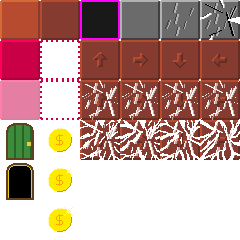
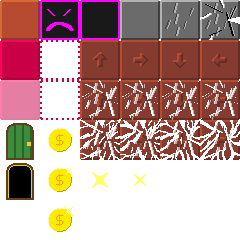
Coin and Death block animations

diff --git a/src/tilemap.rs b/src/tilemap.rs
@@ -2,7 +2,7 @@ use crate::geometry::rect::Rect;
 use crate::geometry::vec2d::Vec2d;
 use crate::tiles::{self, TILE_SIZE};
 use sdl2::render::{Texture, WindowCanvas};
-use std::collections::HashMap;
+use std::collections::{HashMap, HashSet};
 
 // How long each phase of a periodic tile (7/8) lasts
 const PERIODIC_TILE_INTERVAL: f32 = 1.0;
@@ -27,6 +27,17 @@ const PLATFORM_DESTROY_DELAY: f32 = 1.0;
 const COIN_ANIM_INTERVAL: f32 = 5.0;
 const COIN_ANIM_FRAME: f32 = 0.25;
 
+// The coin graphic is a circle centered in its 40x40 tile; collision uses a
+// square of this size inscribed in that circle rather than the full tile, so
+// the player only collects it when actually overlapping the coin.
+const COIN_DIAMETER: f32 = 24.0;
+
+// When a coin is collected it plays a brief two-frame sparkle in its place.
+// The frames live at these pixel coordinates in tilemap.png and each shows for
+// COIN_COLLECT_FRAME seconds.
+const COIN_COLLECT_FRAME: f32 = 0.2;
+const COIN_COLLECT_SPRITES: [(i32, i32); 2] = [(80, 160), (120, 160)];
+
 #[derive(Clone)]
 pub struct MovingPlatform {
     pub x: f32,
@@ -48,6 +59,14 @@ impl MovingPlatform {
     }
 }
 
+/// A transient sparkle played at a coin's tile right after it is collected.
+#[derive(Clone)]
+struct CoinEffect {
+    tile_x: usize,
+    tile_y: usize,
+    timer: f32,
+}
+
 pub struct TileMap {
     pub width: usize,
     pub height: usize,
@@ -59,6 +78,8 @@ pub struct TileMap {
     original_platforms: Vec<MovingPlatform>, // Store original platform positions for reset
     periodic_timer: f32,                     // Shared clock for periodic tiles (7/8)
     coin_timer: f32,                         // Shared clock for the coin shimmer animation
+    triggered_death_tiles: HashSet<(usize, usize)>, // Death tiles the player has hit this life
+    coin_effects: Vec<CoinEffect>,           // Sparkles playing where coins were collected
 }
 
 pub struct Tile {
@@ -117,6 +138,8 @@ impl TileMap {
             original_platforms: platforms,
             periodic_timer: 0.0,
             coin_timer: 0.0,
+            triggered_death_tiles: HashSet::new(),
+            coin_effects: Vec::new(),
         }
     }
 
@@ -131,6 +154,8 @@ impl TileMap {
         self.moving_platforms = self.original_platforms.clone();
         self.periodic_timer = 0.0;
         self.coin_timer = 0.0;
+        self.triggered_death_tiles.clear();
+        self.coin_effects.clear();
     }
 
     pub fn tiles_of_type(&self, t: u32) -> Vec<Tile> {
@@ -152,6 +177,13 @@ impl TileMap {
         self.update_crumbling_tiles(delta_time);
         self.update_moving_platforms(delta_time);
         self.coin_timer = (self.coin_timer + delta_time) % COIN_ANIM_INTERVAL;
+
+        // Advance coin-collection sparkles and drop them once both frames played
+        let total = COIN_COLLECT_FRAME * COIN_COLLECT_SPRITES.len() as f32;
+        for effect in &mut self.coin_effects {
+            effect.timer += delta_time;
+        }
+        self.coin_effects.retain(|effect| effect.timer < total);
     }
 
     /// All periodic tiles swap between their solid and ghost phase on a
@@ -321,13 +353,33 @@ impl TileMap {
     /// collected this frame.
     pub fn collect_coins(&mut self, player_bounds: &Rect) -> u32 {
         let mut collected = 0;
+        let inset = (TILE_SIZE - COIN_DIAMETER) / 2.0;
         for tile in self.tiles_of_type(tiles::COIN) {
-            if player_bounds.intersects(&tile.get_bounding_rect()) {
+            if player_bounds.intersects(&tile.get_bounding_rect().shrink(inset)) {
                 self.tiles[tile.y][tile.x] = tiles::EMPTY;
+                self.coin_effects.push(CoinEffect {
+                    tile_x: tile.x,
+                    tile_y: tile.y,
+                    timer: 0.0,
+                });
                 collected += 1;
             }
         }
         collected
+    }
+
+    /// Mark every death tile the player's bounds overlap as "triggered" so it
+    /// renders its hit sprite until the level resets. Returns whether any death
+    /// tile was hit.
+    pub fn trigger_death_tiles(&mut self, player_bounds: &Rect) -> bool {
+        let mut hit = false;
+        for tile in self.tiles_of_type(tiles::DEATH) {
+            if player_bounds.intersects(&tile.get_bounding_rect()) {
+                self.triggered_death_tiles.insert((tile.x, tile.y));
+                hit = true;
+            }
+        }
+        hit
     }
 
     /// How many uncollected coins remain in the level.
@@ -370,12 +422,6 @@ impl TileMap {
             src_y += self.tile_size;
         }
         sdl2::rect::Rect::new(src_x as i32, src_y as i32, self.tile_size, self.tile_size)
-    }
-
-    /// True during the second half of the periodic cycle, when periodic tiles
-    /// show their transition sprite to telegraph the upcoming phase flip.
-    fn periodic_in_transition(&self) -> bool {
-        self.periodic_timer >= PERIODIC_TILE_INTERVAL / 2.0
     }
 
     /// Row offset (in tiles) into the coin's shimmer frames. The animation
@@ -428,20 +474,18 @@ impl TileMap {
                     self.tile_size,
                 );
 
-                // Periodic tiles show a transition sprite (one row below their
-                // normal graphic) during the second half of the cycle, giving
-                // the player a rhythmic cue that the phase is about to flip.
                 let mut src_rect = self.tile_src_rect(sprite_id);
-                if matches!(sprite_id, tiles::PERIODIC_SOLID | tiles::PERIODIC_GHOST)
-                    && self.periodic_in_transition()
-                {
-                    src_rect.set_y(src_rect.y() + self.tile_size as i32);
-                }
 
                 // Coins periodically shimmer through their two extra sprites.
                 if sprite_id == tiles::COIN {
                     src_rect
                         .set_y(src_rect.y() + self.coin_anim_row_offset() * self.tile_size as i32);
+                }
+
+                // A death tile the player just hit shows its triggered sprite
+                // (one to the left) until the level resets on respawn.
+                if sprite_id == tiles::DEATH && self.triggered_death_tiles.contains(&(col, row)) {
+                    src_rect.set_x(src_rect.x() - self.tile_size as i32);
                 }
 
                 canvas
@@ -472,6 +516,24 @@ impl TileMap {
                 src_rect.set_y(src_rect.y() + rows * self.tile_size as i32);
             }
 
+            canvas.copy(texture, Some(src_rect), Some(dst_rect)).unwrap();
+        }
+
+        // Coin-collection sparkles play their frames in sequence at the tile
+        // the coin occupied.
+        for effect in &self.coin_effects {
+            let frame = (effect.timer / COIN_COLLECT_FRAME) as usize;
+            let Some(&(src_x, src_y)) = COIN_COLLECT_SPRITES.get(frame) else {
+                continue;
+            };
+            let src_rect =
+                sdl2::rect::Rect::new(src_x, src_y, self.tile_size, self.tile_size);
+            let dst_rect = sdl2::rect::Rect::new(
+                (effect.tile_x as i32 * self.tile_size as i32) - camera_x,
+                (effect.tile_y as i32 * self.tile_size as i32) - camera_y,
+                self.tile_size,
+                self.tile_size,
+            );
             canvas.copy(texture, Some(src_rect), Some(dst_rect)).unwrap();
         }
     }

diff --git a/src/engine.rs b/src/engine.rs
@@ -107,8 +107,13 @@ impl GameEngine {
         // until they are all gone.
         self.tilemap.collect_coins(&self.player.bounding_rect());
 
-        // Check if player fell off the screen or touched deadly tile and reset if needed
-        if self.fallen_outside_playable_area(&self.player) || self.is_player_touching_deadly_tile()
+        // Check if player fell off the screen or touched deadly tile and reset
+        // if needed. Touching a death tile marks it so it shows its hit sprite
+        // until the player revives. The margin keeps a player standing with one
+        // foot on solid ground from triggering an adjacent death tile.
+        let death_bounds = self.player.bounding_rect().shrink(2.0);
+        if self.fallen_outside_playable_area(&self.player)
+            || self.tilemap.trigger_death_tiles(&death_bounds)
         {
             self.player.is_dead = true;
             return;
@@ -175,10 +180,6 @@ impl GameEngine {
     /// Check if player is on ground (convenience helper for tests)
     pub fn is_player_on_ground(&self) -> bool {
         self.player.on_ground
-    }
-
-    fn is_player_touching_deadly_tile(&self) -> bool {
-        self.is_player_touching_tile_of_type(tiles::DEATH)
     }
 
     fn is_player_touching_tile_of_type(&self, tile_type: u32) -> bool {
